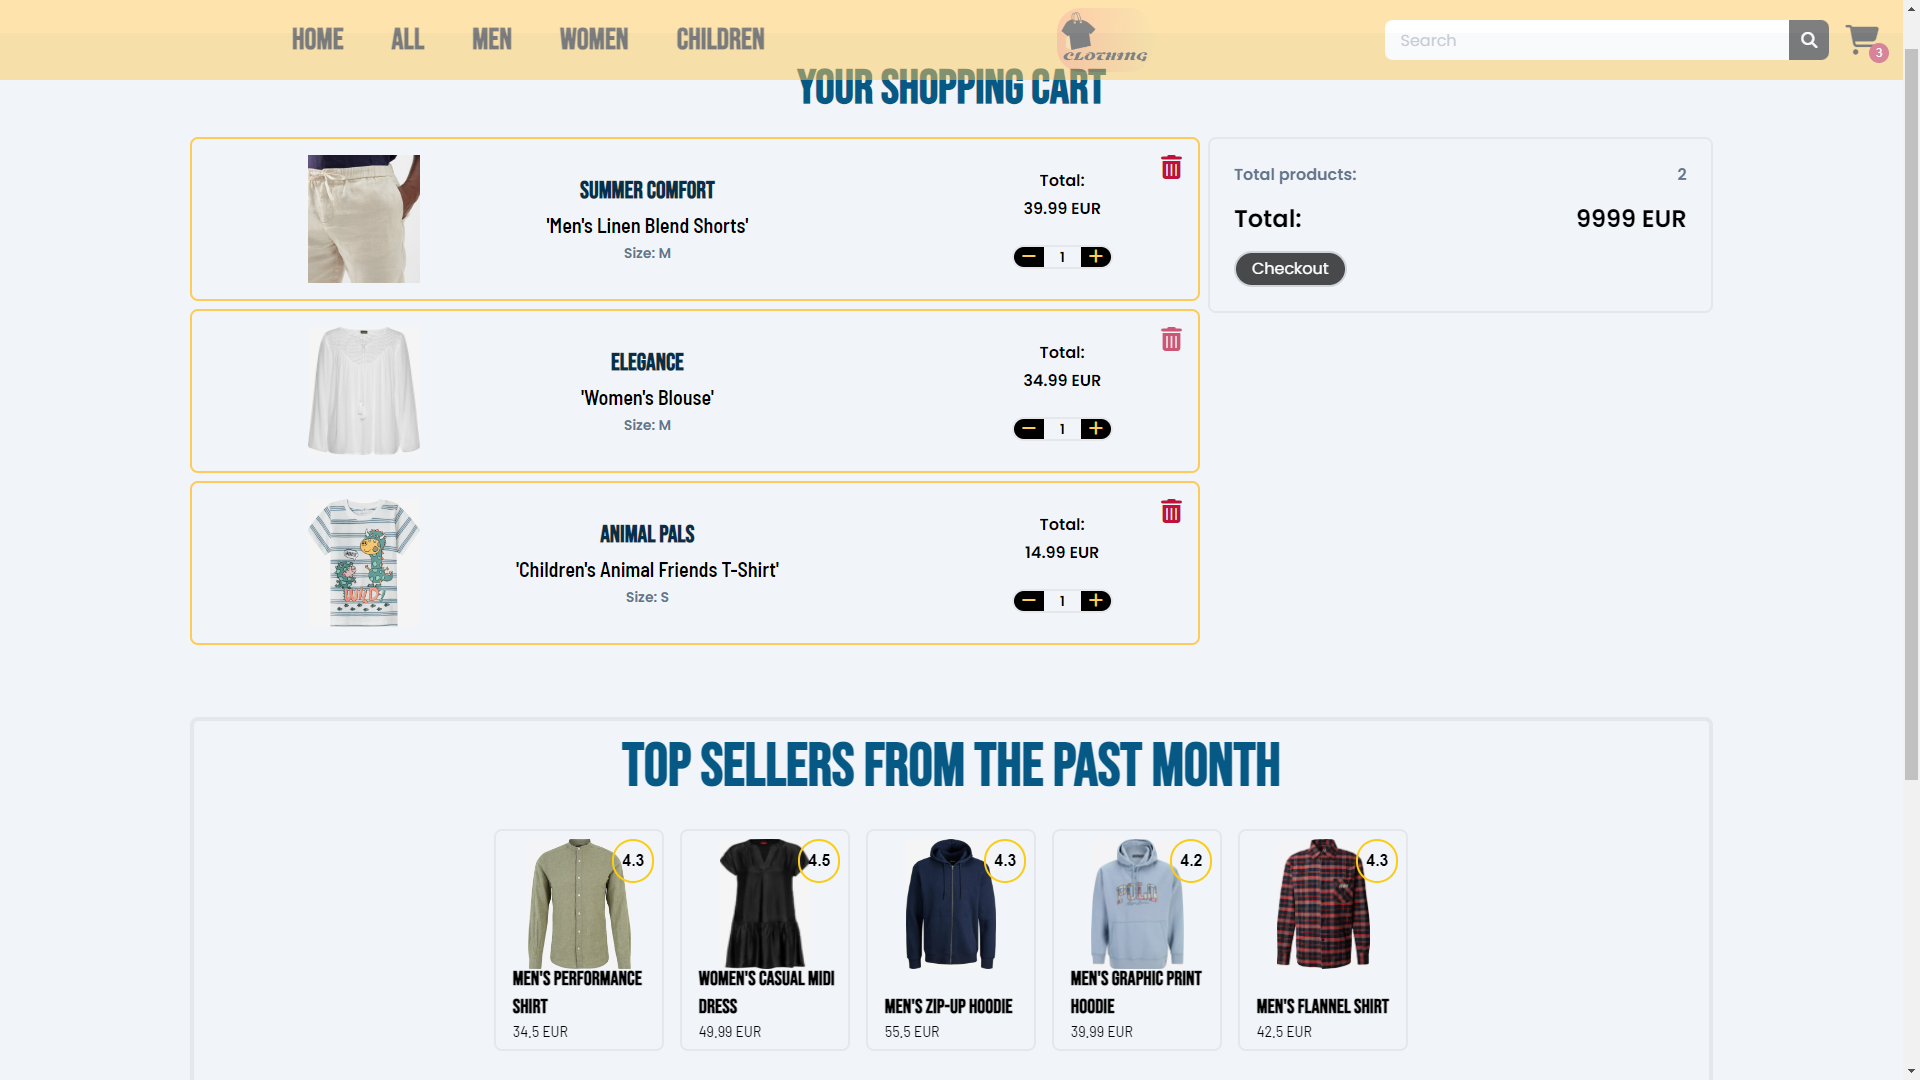
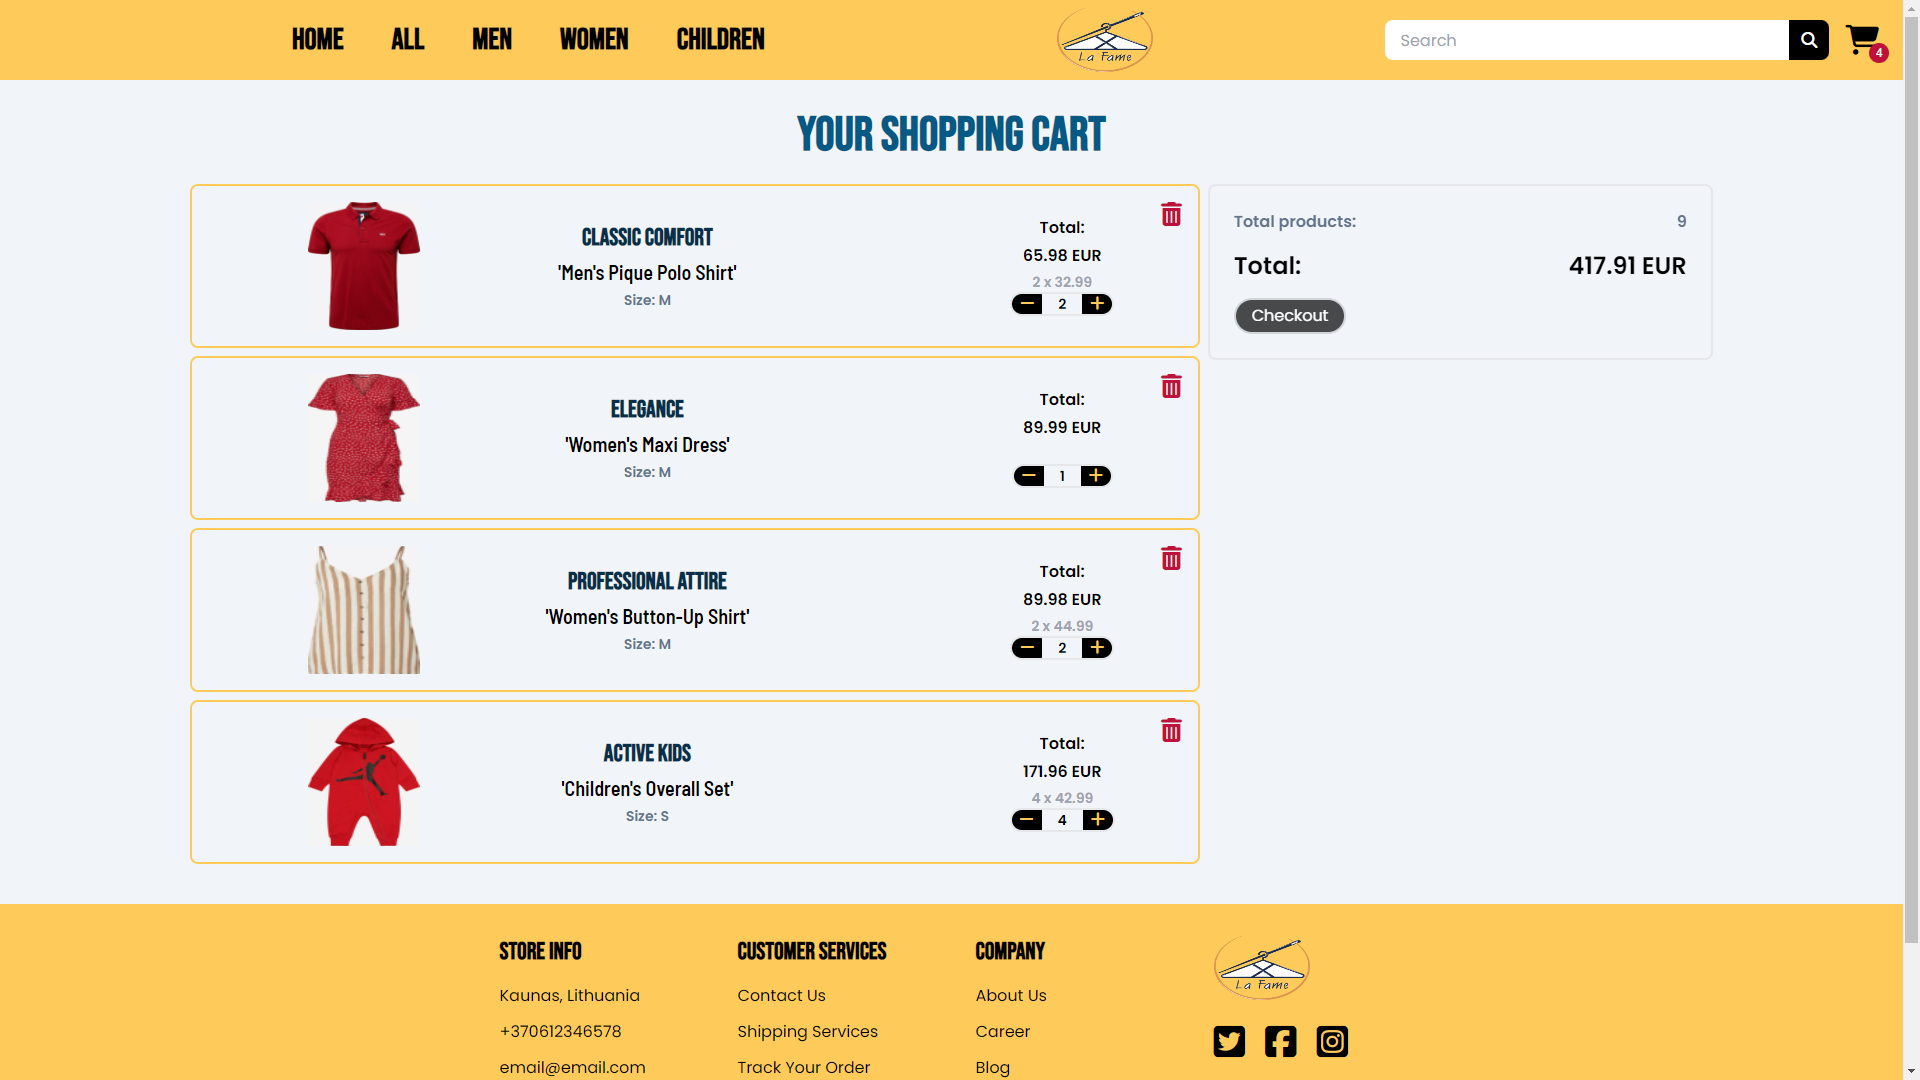
Functionality: · select and update product size. · save/update product size in local storage;

diff --git a/src/projects/ClothesEshop/src/pages/ShoppingCart/ShoppingCartProduct.tsx b/src/projects/ClothesEshop/src/pages/ShoppingCart/ShoppingCartProduct.tsx
@@ -1,4 +1,4 @@
-import React, { useContext, useEffect, useState } from "react";
+import React, { ChangeEvent, useContext, useEffect, useState } from "react";
 import { Link } from "react-router-dom";
 import { ClothesEShopContext } from "../../useContext/ClothesEShopContext";
 
@@ -11,6 +11,7 @@ export default function ShoppingCartProduct({
   const [PrevQuantity, setPrevQuantity] = useState<number>(quantity);
   const [totalPrice] = useState<number>(product.price);
   const [mounted, setMounted] = useState<boolean>(false);
+  const [size, setSize] = useState<string>(product.selectedSize);
 
   const productsContext = useContext(ClothesEShopContext);
 
@@ -37,6 +38,18 @@ export default function ShoppingCartProduct({
     }
   };
 
+  // update item size in shopping cart and save changes to local storage
+  const updateProductSizeInLocalStorage = (id: string): void => {
+    const newArr = productsContext.productsInShoppingCart.map((item) => {
+      if (item.id === id) {
+        item.selectedSize = size;
+      }
+      return item;
+    });
+
+    localStorage.setItem("shopping-cart", JSON.stringify(newArr));
+  };
+
   // set previous Quantity
   useEffect(() => {
     setPrevQuantity(quantity);
@@ -55,6 +68,10 @@ export default function ShoppingCartProduct({
     }
   }, [quantity]);
 
+  useEffect(() => {
+    updateProductSizeInLocalStorage(product.id);
+  }, [size]);
+
   // decrease quantity by 1
   function decreaseQuantity(): void {
     if (quantity !== 1) setQuantity((prevQuantity) => prevQuantity - 1);
@@ -65,6 +82,11 @@ export default function ShoppingCartProduct({
     setQuantity((prevQuantity) => prevQuantity + 1);
     updateQuantityInLocalStorage(product.id, 1);
   }
+
+  // handle select element
+  const handleChange = (event: ChangeEvent<HTMLSelectElement>) => {
+    setSize(event.target.value);
+  };
 
   return (
     <div className="flex max-[500px]:flex-col max-[500px]:items-center gap-4 w-full border-2 border-[#FECA5A] rounded-lg p-4 my-2 relative">
@@ -84,8 +106,23 @@ export default function ShoppingCartProduct({
             {product.brand}
           </div>
           <div className="font-name max-md:text-base text-xl text-black">{`'${product.name}' `}</div>
-          <div className="font-base text-sm max-md:text-xs text-slate-500">
-            Size: {product.sizes[1]}
+          <div
+            onClick={(e) => e.preventDefault()}
+            className="font-base text-sm max-md:text-xs text-slate-500"
+          >
+            Size:{" "}
+            <select
+              value={size}
+              onChange={handleChange}
+              className="hover:opacity-100"
+            >
+              <option value="Choose Size">Choose Size</option>
+              {product.sizes.map((size) => (
+                <option className="text-sm font-base" key={size} value={size}>
+                  {size}
+                </option>
+              ))}
+            </select>
           </div>
         </div>
       </Link>
@@ -107,7 +144,6 @@ export default function ShoppingCartProduct({
               onClick={(e) => {
                 e.preventDefault();
                 decreaseQuantity();
-                // updateQuantityInLocalStorage(product.id, quantity);
               }}
               className="fa-solid fa-minus"
             ></i>

diff --git a/src/projects/ClothesEshop/src/pages/ShoppingCart/ShoppingCart.tsx b/src/projects/ClothesEshop/src/pages/ShoppingCart/ShoppingCart.tsx
@@ -21,11 +21,18 @@ type ProductsInShoppingCartProps = {
   images: string[];
   rating: number;
   quantity?: number;
+  selectedSize?: string;
 };
 
 type CalculateTotalsProps = {
   totalPrice: number;
   totalQuantity: number;
+};
+
+type ItemProps = {
+  id: string;
+  quantity: number;
+  selectedSize: string;
 };
 
 export default function ShoppingCart() {
@@ -40,6 +47,7 @@ export default function ShoppingCart() {
   const [totalCartPrice, setTotalCartPrice] = useState<number>(0);
   const [totalCartProductsQuantity, setTotalCartProductsQuantity] =
     useState<number>(0);
+  const [errorMessage, setErrorMessage] = useState<String>("");
 
   // increase totalCartProductsQuantity state by 1.
   // add to totalCartPrice state product price
@@ -58,10 +66,14 @@ export default function ShoppingCart() {
   useEffect(() => {
     let productsInShoppingCart: ProductsInShoppingCartProps[] = [];
     productsContext.productsInShoppingCart.map(
-      (item: { id: string; quantity: number }) => {
+      (item: { id: string; quantity: number; selectedSize: string }) => {
         allItems.find((product) => {
           if (product.id === item.id) {
-            product = { ...product, quantity: item.quantity };
+            product = {
+              ...product,
+              quantity: item.quantity,
+              selectedSize: item.selectedSize,
+            };
             productsInShoppingCart.push(product);
           }
         });
@@ -85,9 +97,17 @@ export default function ShoppingCart() {
       setTotalCartPrice(totalPrice);
       setTotalCartProductsQuantity(totalQuantity);
     };
-
     calculateTotals();
   }, [cartProducts]);
+
+  // check if all products have selected size. if at least one does not returns TRUE
+  const checkIfAtLeastOneProductDoesNotHaveSize = () => {
+    const result = productsContext.productsInShoppingCart.some(
+      (item: ItemProps) => item.selectedSize === "Choose Size"
+    );
+
+    return result;
+  };
 
   return (
     <div className="w-full py-8">
@@ -129,11 +149,30 @@ export default function ShoppingCart() {
                 </div>
               </div>
               <NavLink
+                onClick={(e) => {
+                  if (checkIfAtLeastOneProductDoesNotHaveSize()) {
+                    e.preventDefault();
+                    setErrorMessage(
+                      "!!! Ensure that a size is selected for every product. !!!"
+                    );
+                  }
+                  console.log(checkIfAtLeastOneProductDoesNotHaveSize());
+                  console.log(errorMessage);
+                }}
                 className="w-fit rounded-full"
                 to={cartProducts.length === 0 ? "" : "checkout"}
               >
                 <Button text="Checkout" />
               </NavLink>
+              <div>
+                {errorMessage ? (
+                  <p className="font-base text-red-500 text-xl">
+                    {errorMessage}
+                  </p>
+                ) : (
+                  ""
+                )}
+              </div>
             </div>
           </div>
         </div>

diff --git a/src/projects/ClothesEshop/src/components/Product/ProductCard.tsx b/src/projects/ClothesEshop/src/components/Product/ProductCard.tsx
@@ -59,8 +59,16 @@ export default function ProductCard({
   }
 
   // add product to shopping cart list, default quantity 1
-  function addProductToCshoppingCart(product: ItemProps, quantity: number = 1) {
-    const item = { id: product.id, quantity: quantity };
+  function addProductToCshoppingCart(
+    product: ItemProps,
+    quantity: number = 1,
+    selectedSize: string = "Choose Size"
+  ) {
+    const item = {
+      id: product.id,
+      quantity: quantity,
+      selectedSize: selectedSize,
+    };
 
     // check or item already exist in shopping cart
     if (

diff --git a/src/projects/ClothesEshop/src/components/Product/ProductModal.tsx b/src/projects/ClothesEshop/src/components/Product/ProductModal.tsx
@@ -131,7 +131,7 @@ export default function ProductModal() {
                 <option disabled value="choose a size">
                   Choose a Size
                 </option>
-                {product.sizes.map((size) => (
+                {product.sizes.map((size: string) => (
                   <option className="text-sm font-base" key={size} value={size}>
                     {size}
                   </option>
